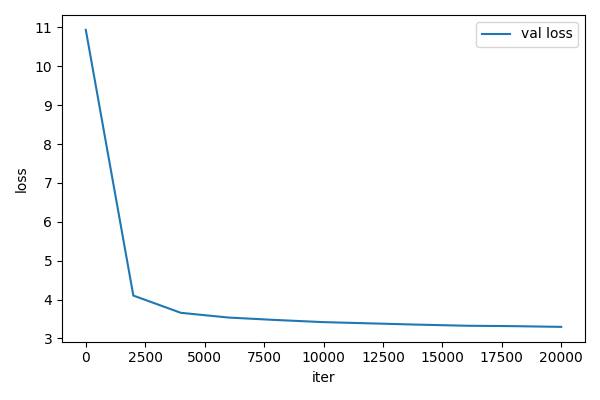
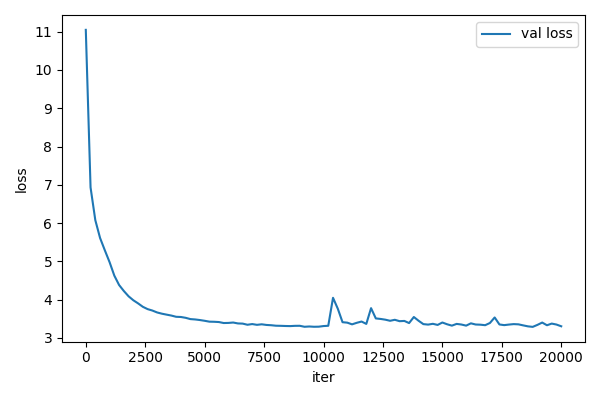
refactor: update model classes and improve validation loss plotting
- Renamed shard communication classes for clarity.
- Modified forward methods to handle two input streams in communication classes.
- Updated validation loss plotting logic in plot_assist.py to skip specific labels and added a horizontal line for reference.
- Adjusted evaluation interval in train.py for more frequent evaluations.
- Added new entries to .gitignore for output directories.

diff --git a/generate_from_all_checkpoints.py b/generate_from_all_checkpoints.py
@@ -1,0 +1,199 @@
+"""
+Generate text samples from all checkpoints in the out directory
+Output as a LaTeX table
+"""
+import os
+import pickle
+from contextlib import nullcontext
+import torch
+import tiktoken
+from tensor_parallel_model_general_order import GPTConfig, GPT
+
+# -----------------------------------------------------------------------------
+# Configuration
+out_base_dir = 'out'
+start = "what did nietzsche proclaim?"  # starting prompt
+num_samples = 3  # number of samples to draw per checkpoint
+max_new_tokens = 100  # number of tokens generated in each sample
+temperature = 0.8
+top_k = 200
+seed = 1337
+device = 'cuda' if torch.cuda.is_available() else 'cpu'
+dtype = 'bfloat16' if torch.cuda.is_available() and torch.cuda.is_bf16_supported() else 'float16'
+# -----------------------------------------------------------------------------
+
+def escape_latex(text):
+    """Escape special LaTeX characters"""
+    replacements = {
+        '\\': r'\textbackslash{}',
+        '&': r'\&',
+        '%': r'\%',
+        '$': r'\$',
+        '#': r'\#',
+        '_': r'\_',
+        '{': r'\{',
+        '}': r'\}',
+        '~': r'\textasciitilde{}',
+        '^': r'\textasciicircum{}',
+    }
+    for old, new in replacements.items():
+        text = text.replace(old, new)
+    return text
+
+torch.manual_seed(seed)
+if torch.cuda.is_available():
+    torch.cuda.manual_seed(seed)
+    torch.backends.cuda.matmul.allow_tf32 = True
+    torch.backends.cudnn.allow_tf32 = True
+
+device_type = 'cuda' if 'cuda' in device else 'cpu'
+ptdtype = {'float32': torch.float32, 'bfloat16': torch.bfloat16, 'float16': torch.float16}[dtype]
+ctx = nullcontext() if device_type == 'cpu' else torch.amp.autocast(device_type=device_type, dtype=ptdtype)
+
+# Find all checkpoint directories
+checkpoint_dirs = []
+for item in os.listdir(out_base_dir):
+    item_path = os.path.join(out_base_dir, item)
+    if os.path.isdir(item_path):
+        ckpt_path = os.path.join(item_path, 'ckpt.pt')
+        if os.path.exists(ckpt_path):
+            checkpoint_dirs.append(item_path)
+
+checkpoint_dirs.sort()  # Sort for consistent ordering
+
+print(f"Found {len(checkpoint_dirs)} checkpoints:")
+for d in checkpoint_dirs:
+    print(f"  - {d}")
+print("\n" + "="*80 + "\n")
+
+# Store results: results[checkpoint_name] = [sample1, sample2, ...]
+results = {}
+
+# Load and generate from each checkpoint
+for checkpoint_dir in checkpoint_dirs:
+    checkpoint_name = os.path.basename(checkpoint_dir)
+    print(f"Generating from: {checkpoint_name}")
+    
+    ckpt_path = os.path.join(checkpoint_dir, 'ckpt.pt')
+    
+    try:
+        # Load checkpoint
+        checkpoint = torch.load(ckpt_path, map_location=device)
+        gptconf = GPTConfig(**checkpoint['model_args'])
+        model = GPT(gptconf)
+        
+        # Remove unwanted prefix from state dict
+        state_dict = checkpoint['model']
+        unwanted_prefix = '_orig_mod.'
+        for k, v in list(state_dict.items()):
+            if k.startswith(unwanted_prefix):
+                state_dict[k[len(unwanted_prefix):]] = state_dict.pop(k)
+        
+        model.load_state_dict(state_dict)
+        model.eval()
+        model.to(device)
+        
+        # Try to load meta.pkl for encoding/decoding
+        load_meta = False
+        if 'config' in checkpoint and 'dataset' in checkpoint['config']:
+            meta_path = os.path.join('data', checkpoint['config']['dataset'], 'meta.pkl')
+            load_meta = os.path.exists(meta_path)
+        
+        if load_meta:
+            with open(meta_path, 'rb') as f:
+                meta = pickle.load(f)
+            stoi, itos = meta['stoi'], meta['itos']
+            encode = lambda s: [stoi[c] for c in s]
+            decode = lambda l: ''.join([itos[i] for i in l])
+        else:
+            # Fallback to GPT-2 tiktoken encoding (for openwebtext, etc.)
+            print(f"  No meta.pkl found, using GPT-2 tiktoken encoding")
+            enc = tiktoken.get_encoding("gpt2")
+            encode = lambda s: enc.encode(s, allowed_special={"<|endoftext|>"})
+            decode = lambda l: enc.decode(l)
+        
+        # Encode the prompt
+        start_ids = encode(start)
+        x = torch.tensor(start_ids, dtype=torch.long, device=device)[None, ...]
+        
+        # Generate samples
+        samples = []
+        with torch.no_grad():
+            with ctx:
+                for k in range(num_samples):
+                    y = model.generate(x, max_new_tokens, temperature=temperature, top_k=top_k)
+                    generated_text = decode(y[0].tolist())
+                    # Remove newlines and extra whitespace
+                    generated_text = generated_text.replace('\n', ' ').replace('\r', ' ')
+                    # Collapse multiple spaces into one
+                    generated_text = ' '.join(generated_text.split())
+                    samples.append(generated_text)
+        
+        results[checkpoint_name] = samples
+        print(f"  Generated {len(samples)} samples")
+        
+        # Clean up
+        del model
+        del checkpoint
+        if torch.cuda.is_available():
+            torch.cuda.empty_cache()
+            
+    except Exception as e:
+        print(f"  Error: {e}")
+        import traceback
+        traceback.print_exc()
+        results[checkpoint_name] = ["Error"] * num_samples
+        continue
+
+# Generate LaTeX table (vertical format: checkpoints as rows, samples as columns)
+print("\n" + "="*80)
+print("LaTeX Table Output:")
+print("="*80 + "\n")
+
+checkpoint_names = sorted(results.keys())
+
+# Start LaTeX table with vertical layout
+latex_output = []
+latex_output.append(r"\begin{table}[htbp]")
+latex_output.append(r"\centering")
+latex_output.append(r"\small")  # Make text smaller to fit more content
+latex_output.append(r"\begin{tabular}{|l|" + "p{4.5cm}|" * num_samples + "}")
+latex_output.append(r"\hline")
+
+# Header row (Sample 1, Sample 2, Sample 3...)
+header = "Checkpoint & " + " & ".join([f"Sample {i+1}" for i in range(num_samples)]) + r" \\"
+latex_output.append(header)
+latex_output.append(r"\hline")
+
+# Data rows (one row per checkpoint)
+for checkpoint_name in checkpoint_names:
+    row_cells = [escape_latex(checkpoint_name)]
+    for i in range(num_samples):
+        sample_text = results[checkpoint_name][i]
+        # Truncate long samples for readability
+        if len(sample_text) > 150:
+            sample_text = sample_text[:150] + "..."
+        escaped_text = escape_latex(sample_text)
+        row_cells.append(escaped_text)
+    
+    row = " & ".join(row_cells) + r" \\"
+    latex_output.append(row)
+    latex_output.append(r"\hline")
+
+latex_output.append(r"\end{tabular}")
+latex_output.append(r"\caption{Generated text samples from different checkpoints. Prompt: ``" + escape_latex(start) + "''}")
+latex_output.append(r"\label{tab:samples}")
+latex_output.append(r"\end{table}")
+
+# Print the LaTeX table
+latex_table = "\n".join(latex_output)
+print(latex_table)
+
+# Save to file
+output_file = "generated_samples_table.tex"
+with open(output_file, 'w') as f:
+    f.write(latex_table)
+
+print(f"\n\nLaTeX table saved to: {output_file}")
+print("="*80)
+

diff --git a/tensor_parallel_model_general_order.py b/tensor_parallel_model_general_order.py
@@ -112,7 +112,7 @@ class MLP(nn.Module):
         x_device = self.dropout(x_device)
         return x_device
 
-class ShardBlockNoCommunication(nn.Module):
+class BlockNoCommunication(nn.Module):
 
     def __init__(self, config):
         super().__init__()
@@ -128,7 +128,7 @@ class ShardBlockNoCommunication(nn.Module):
 
 
 
-class ShardBlockPartialCommunication(nn.Module):
+class BlockPartialCommunication(nn.Module):
 
     def __init__(self, config):
         super().__init__()
@@ -142,22 +142,24 @@ class ShardBlockPartialCommunication(nn.Module):
         self.mlp1 = MLP(config) ## first MLP
         self.mlp2 = MLP(config) ## second MLP
 
-    def forward(self, x):
+    def forward(self, x_1, x_2):
         # First stream: attention then MLP
-        output_attn1 = self.attn1(self.ln_1_1(x))
-        x_1 = x + output_attn1
+        output_attn1 = self.attn1(self.ln_1_1(x_1))
+        x_1 = x_1 + output_attn1
         x_1 = x_1 + self.mlp1(self.ln_1_2(x_1))
 
         # Second stream: attention then MLP
-        output_attn2 = self.attn2(self.ln_2_1(x))
-        x_2 = x + output_attn2
+        output_attn2 = self.attn2(self.ln_2_1(x_2))
+        x_2 = x_2 + output_attn2
         x_2 = x_2 + self.mlp2(self.ln_2_2(x_2))
 
         # Reduce after attention only (partial communication)
-        x = add_and_reduce_tensor(x_1, x_2)
+        add_and_reduce_tensor_output = add_and_reduce_tensor(output_attn1, output_attn2)
+        x_1 = x_1 + add_and_reduce_tensor_output
+        x_2 = x_2 + add_and_reduce_tensor_output
 
-        return x
-class ShardBlockFullCommunication(nn.Module):
+        return x_1, x_2 ### two simulated devices
+class BlockFullCommunication(nn.Module):
     """ 
     This block recovers the exact computation of the original model.
     """
@@ -173,20 +175,24 @@ class ShardBlockFullCommunication(nn.Module):
         self.mlp1 = MLP(config) ## first MLP
         self.mlp2 = MLP(config) ## second MLP
 
-    def forward(self, x):
+    def forward(self, x_1, x_2):
         # First stream: attention
-        output_attn1 = self.attn1(self.ln_1_1(x))
+        output_attn1 = self.attn1(self.ln_1_1(x_1))
         # Second stream: attention
-        output_attn2 = self.attn2(self.ln_2_1(x))
+        output_attn2 = self.attn2(self.ln_2_1(x_2))
         # Reduce after attention (full communication)
-        x = x + add_and_reduce_tensor(output_attn1, output_attn2)
+        add_and_reduce_tensor_output = add_and_reduce_tensor(output_attn1, output_attn2)
+        x_1 = x_1 + add_and_reduce_tensor_output
+        x_2 = x_2 + add_and_reduce_tensor_output
         # First stream: MLP
-        linear_output1 = self.mlp1(self.ln_1_2(x))
+        linear_output1 = self.mlp1(self.ln_1_2(x_1))
         # Second stream: MLP
-        linear_output2 = self.mlp2(self.ln_2_2(x))
+        linear_output2 = self.mlp2(self.ln_2_2(x_2))
         # Reduce after MLP (full communication)
-        x = x + add_and_reduce_tensor(linear_output1, linear_output2)
-        return x
+        add_and_reduce_tensor_output = add_and_reduce_tensor(linear_output1, linear_output2)
+        x_1 = x_1 + add_and_reduce_tensor_output
+        x_2 = x_2 + add_and_reduce_tensor_output
+        return x_1, x_2 ### two simulated devices
 @dataclass
 class GPTConfig:
     block_size: int = 1024
@@ -208,12 +214,12 @@ class GPT(nn.Module):
         self.pattern = config.pattern if config.pattern is not None else ["full_communication"]*config.n_layer
         for i in range(config.n_layer):
             if self.pattern[i] == "full_communication":
-                list_of_blocks.append(ShardBlockFullCommunication(config))
+                list_of_blocks.append(BlockFullCommunication(config))
             elif self.pattern[i] == "partial_communication":
-                list_of_blocks.append(ShardBlockPartialCommunication(config))
+                list_of_blocks.append(BlockPartialCommunication(config))
             elif self.pattern[i] == "no_communication":
-                list_of_blocks.append(ShardBlockNoCommunication(config)) 
-                list_of_blocks.append(ShardBlockNoCommunication(config))
+                list_of_blocks.append(BlockNoCommunication(config)) 
+                list_of_blocks.append(BlockNoCommunication(config))
             else:
                 raise ValueError(f"Invalid pattern: {self.pattern[i]}")
         self.transformer = nn.ModuleDict(dict(
@@ -272,18 +278,15 @@ class GPT(nn.Module):
         x = self.transformer.drop(tok_emb + pos_emb)
 
         # Maintain two streams (x_1, x_2) and a separate index into the ModuleList
-        x_1 = x
-        x_2 = x
+        x_1 = x.clone().detach() ### for the first simulated device
+        x_2 = x.clone().detach() ### for the second simulated device
         block_idx = 0
         for i in range(len(self.pattern)):
             pat = self.pattern[i]
             if pat == "full_communication" or pat == "partial_communication":
                 # Reduce, run a single shared block, then broadcast to both streams
-                x = add_and_reduce_tensor(x_1, x_2)
-                x = self.transformer.h[block_idx](x)
+                x_1, x_2 = self.transformer.h[block_idx](x_1, x_2)
                 block_idx += 1
-                x_1 = x
-                x_2 = x
             elif pat == "no_communication":
                 # Advance each stream with its own consecutive block
                 x_1 = self.transformer.h[block_idx](x_1)

diff --git a/generated_samples_table.tex b/generated_samples_table.tex
@@ -1,0 +1,19 @@
+\begin{table}[htbp]
+\centering
+\small
+\begin{tabular}{|l|p{4.5cm}|p{4.5cm}|p{4.5cm}|}
+\hline
+Checkpoint & Sample 1 & Sample 2 & Sample 3 \\
+\hline
+train\_12\_half\_12 & what did nietzsche proclaim? “Moral literature is a matter of opinion, so if a person with no intellectual talent is deemed to be ignorant, then it is... & what did nietzsche proclaim? Probably the only thing he knew was that he was an evil man. So he actually attacked the Nazis. The worst crimes of the H... & what did nietzsche proclaim? “No, I don’t have any idea. No, I never had any time to think about the question. I just couldn’t have thought about it.”... \\
+\hline
+train\_4\_full\_12\_half\_16 & what did nietzsche proclaim? In short, the argument has been made. But I don’t think that anything is obsolete. I do think that everything in the worl... & what did nietzsche proclaim?” And then in a sense, he is right. The great contribution of Hans-Bergkamp to American culture in the last twenty years h... & what did nietzsche proclaim? Nietzsche died in 1966. At the time he wrote The Meaning of Freedom (1979) by the same author as the G.T. Bradley, it was... \\
+\hline
+train\_6\_half\_6\_none\_6 & what did nietzsche proclaim? In the recent Global Times interview on June 17, 2012, Lewis was more critical of the US government’s handling of the sit... & what did nietzsche proclaim? A recent survey by the new Social Sciences found that a majority of the respondents who surveyed acknowledged that a mino... & what did nietzsche proclaim? There are many variants of this story described below.<|endoftext|>Before the recent election, there was a dramatic turn ... \\
+\hline
+train\_9\_half\_3\_none\_9 & what did nietzsche proclaim? As Lenin wrote, “all races were distinguished by their classes, their divisions, and their relations with the world.” He ... & what did nietzsche proclaim? By a simple, eugenic and self-reflective way, the philosophers were prepared to die if they did not care. So, what, why, ... & what did nietzsche proclaim? The philosopher Friedrich Nietzsche thought that these were problems (an insight about the problems of our time and the w... \\
+\hline
+\end{tabular}
+\caption{Generated text samples from different checkpoints. Prompt: ``what did nietzsche proclaim?''}
+\label{tab:samples}
+\end{table}

diff --git a/plot_assist.py b/plot_assist.py
@@ -13,16 +13,19 @@ for exp_name in exps_name:
         if file_name.endswith('.pkl'):
             with open(os.path.join(output_dir, exp_name, file_name), 'rb') as f:
                 data = pickle.load(f)
-            print(len(data['steps']))
-            if len(data['steps']) != 11:
+            
+            if len(data['steps']) != 101:
                 continue
             label = exp_name.split('_')[-1]
+            if label == '24':
+                continue
+            
             ax.plot(data['steps'], data['val_losses'], label=label)
-plt.legend()
+ax.legend(fontsize=14,title = "Number of Synchronous Operations")
+ax.hlines(y=3.28, xmin=0, xmax=20000, color='red', linestyle='--')
 plt.yscale('log')
 plt.xlabel('iter', fontsize=14)
 plt.ylabel('val loss', fontsize=14)
 plt.title('val loss', fontsize=14)
-plt.legend(fontsize=14,title = "Number of Synchronous Operations")
 plt.savefig(os.path.join(output_dir, 'val_loss.png'))
 plt.close()

diff --git a/train.py b/train.py
@@ -36,7 +36,7 @@ import matplotlib.pyplot as plt
 # default config values designed to train a gpt2 (124M) on OpenWebText
 # I/O
 out_dir = 'out'
-eval_interval = 2000
+eval_interval = 200
 log_interval = 1
 eval_iters = 200
 eval_only = False # if True, script exits right after the first eval
